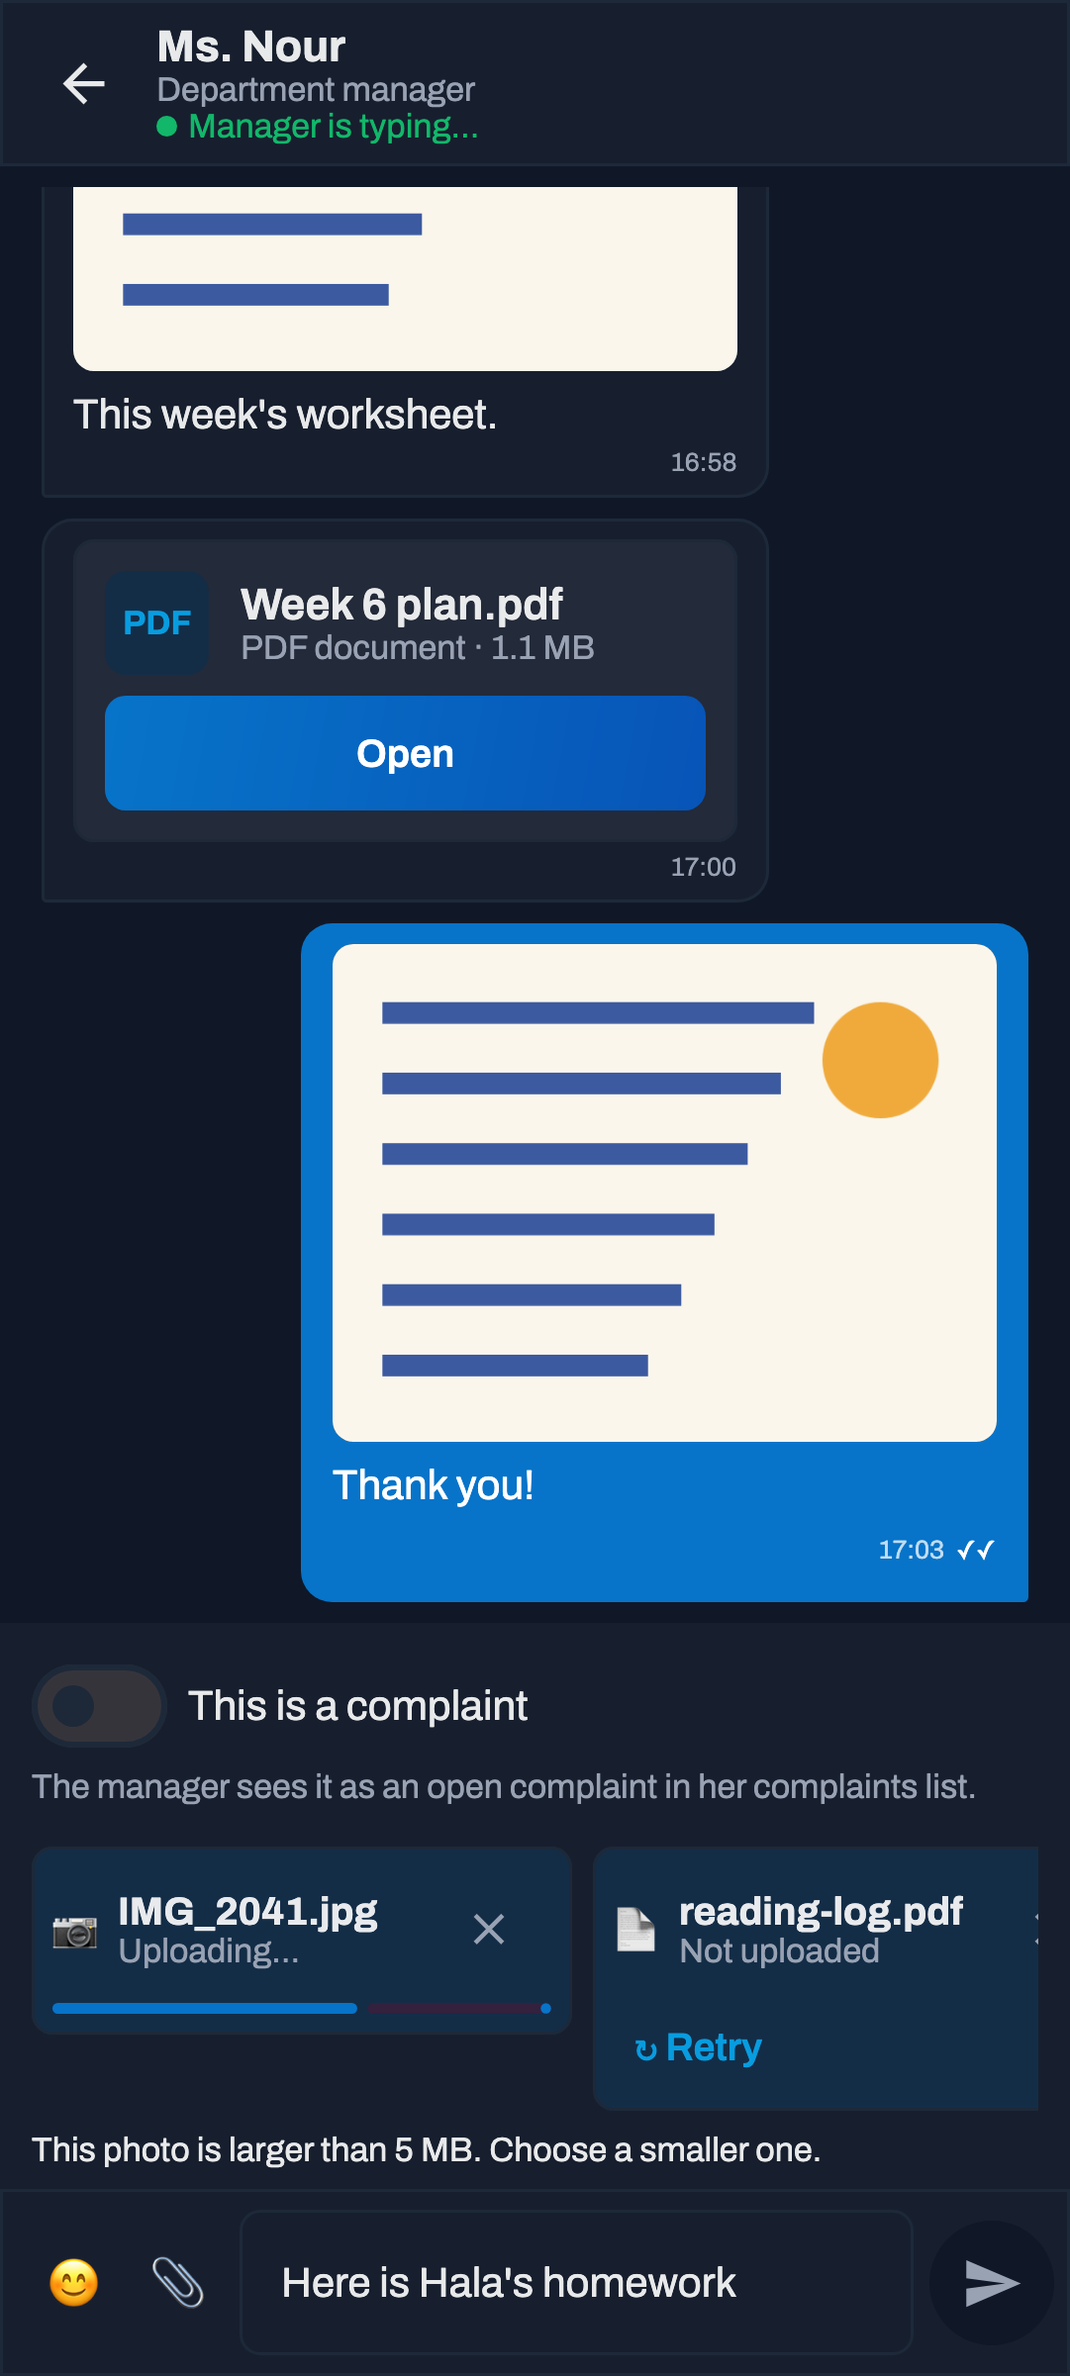
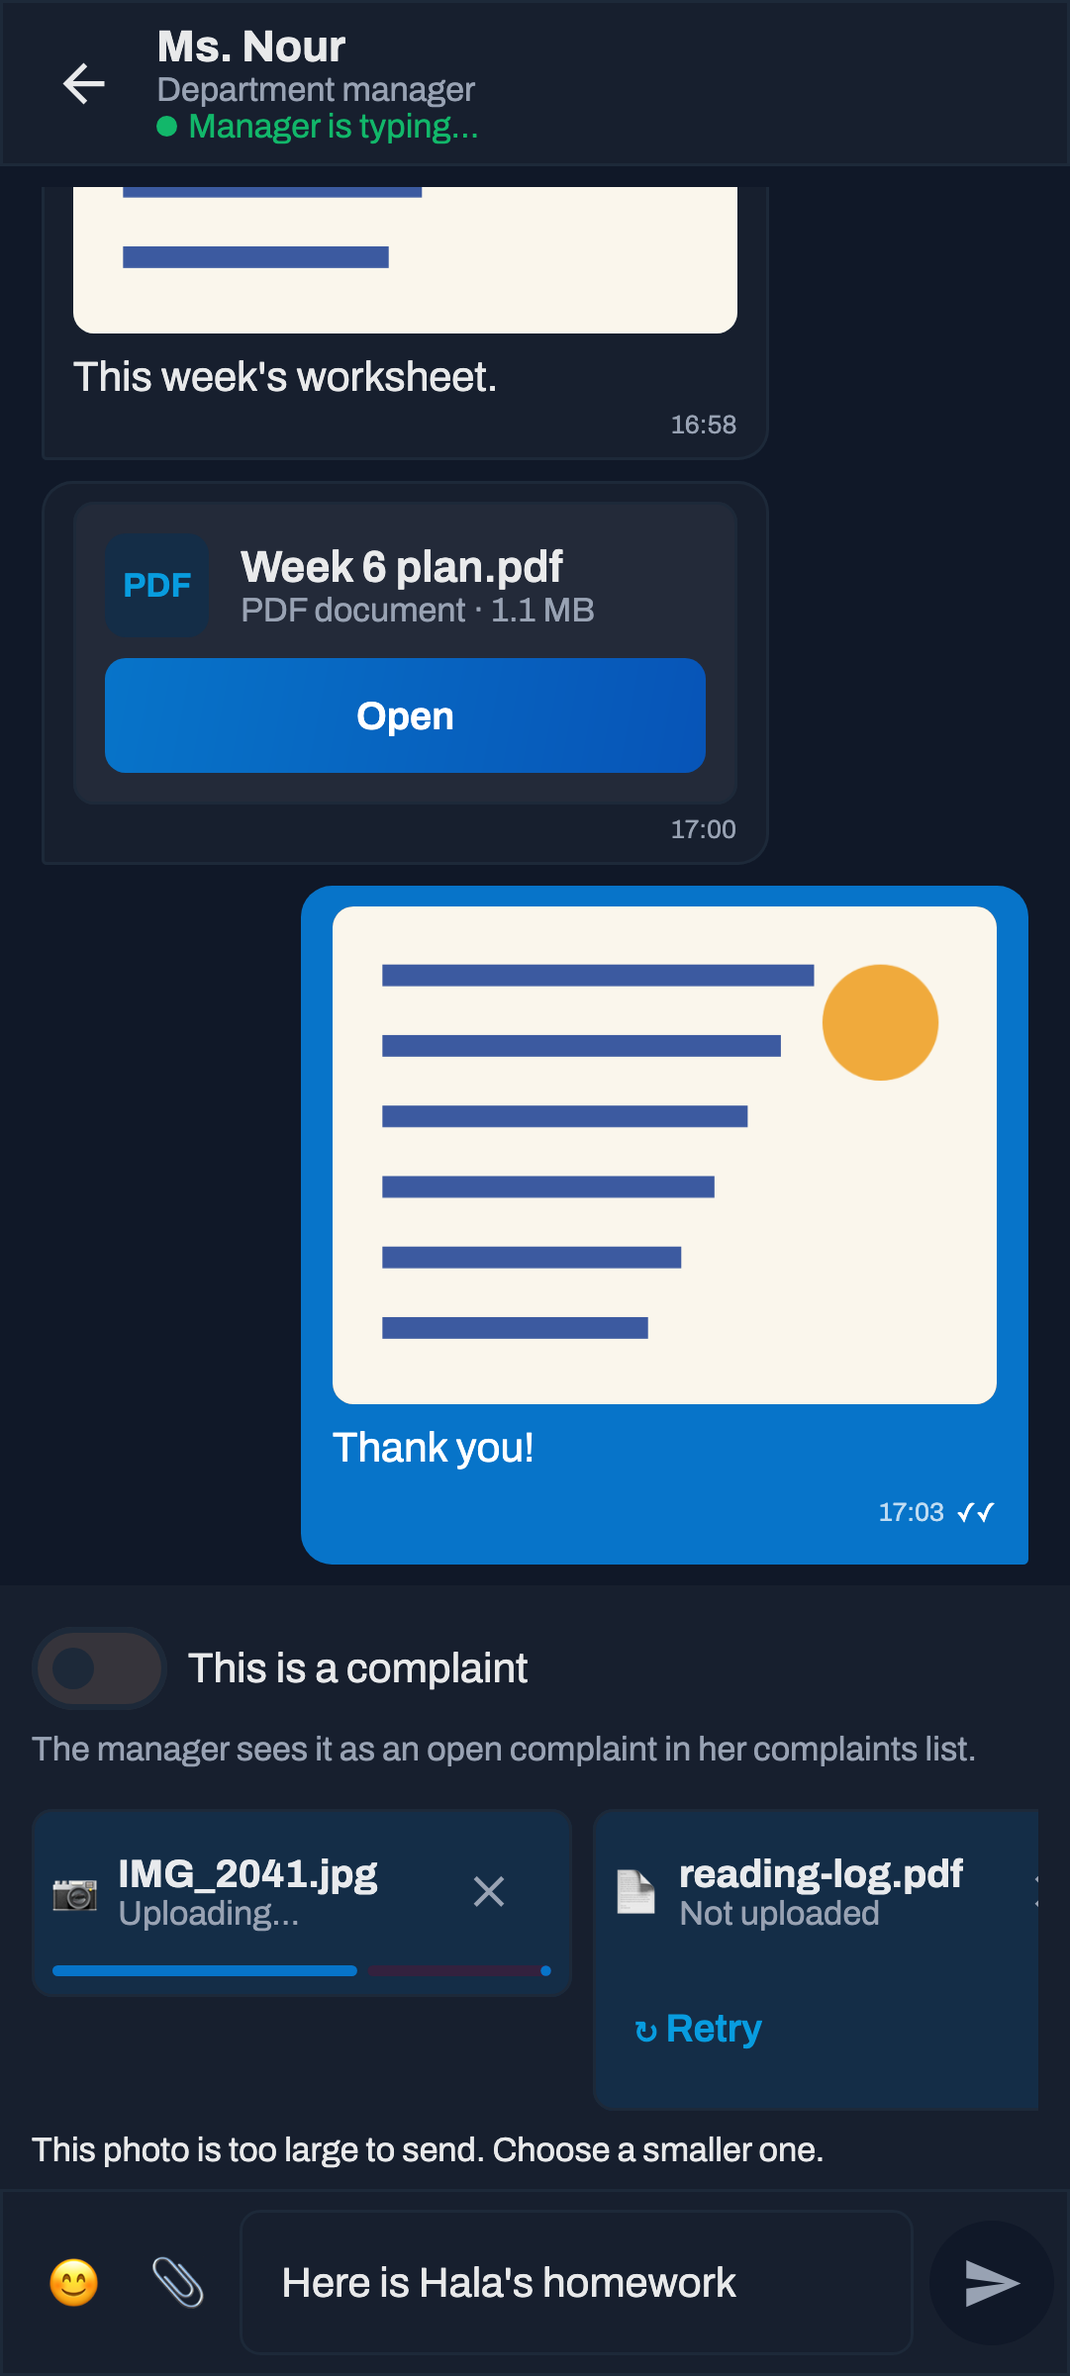
fix(app): M7 review — Retry 48 dp, dead isTyping strings gone, deterministic typing tests

diff --git a/shared/src/desktopTest/kotlin/quest/feature/chat/ChatAttachmentsTypingTest.kt b/shared/src/desktopTest/kotlin/quest/feature/chat/ChatAttachmentsTypingTest.kt
@@ -32,6 +32,8 @@ import quest.feature.chat.domain.ChatPeer
 import quest.feature.chat.domain.ChatRepository
 import quest.feature.chat.domain.MAX_PHOTO_BYTES
 import quest.feature.chat.domain.PickedFile
+import quest.feature.chat.domain.StagedUpload
+import quest.feature.chat.domain.UploadStaging
 import quest.feature.chat.domain.TYPING_TIMEOUT_MS
 import quest.feature.chat.domain.asThumbnail
 import quest.feature.chat.domain.contentTypeOf
@@ -72,7 +74,7 @@ class ChatAttachmentsTypingTest {
 
         var rows: List<ChatThread> = emptyList()
         var threadsAsked = 0
-        val uploads = mutableListOf<UploadFile>()
+        val uploads = mutableListOf<StagedUpload>()
         val gates = mutableListOf<CompletableDeferred<Boolean>>()
         val sends = mutableListOf<Pair<String, List<String>>>()
         var uploadError: Throwable? = null
@@ -82,13 +84,13 @@ class ChatAttachmentsTypingTest {
         override suspend fun coordinators(childId: String): List<ChatThread> = emptyList()
         override suspend fun managers(childId: String): List<ChatThread> = emptyList()
         override suspend fun messages(childId: String, teacherId: String, before: String?, since: String?, limit: Int?): List<ChatMessage> = emptyList()
-        override suspend fun uploadAttachment(childId: String, file: UploadFile, onProgress: (Float) -> Unit): AttachmentRef {
+        override suspend fun uploadAttachment(childId: String, file: StagedUpload, onProgress: (Float) -> Unit): AttachmentRef {
             uploads += file
             uploadError?.let { throw it }
             val gate = CompletableDeferred<Boolean>().also { gates += it }
             onProgress(0.5f)
             if (!gate.await()) error("upload failed")
-            return AttachmentRef("att-${uploads.size}", file.fileName, file.mimeType, file.bytes.size.toLong(), width = 800, height = 600)
+            return AttachmentRef("att-${uploads.size}", file.name, file.contentType, file.size, width = 800, height = 600)
         }
         override suspend fun sendMessage(childId: String, teacherId: String, body: String, clientId: String, topic: ChatTopic?, attachmentIds: List<String>): ChatMessage {
             sends += body to attachmentIds
@@ -107,6 +109,20 @@ class ChatAttachmentsTypingTest {
         }
     }
 
+    /** Staging in memory: what was staged, and which of it has been deleted again. */
+    private class MemoryStaging : UploadStaging {
+        val live = mutableMapOf<String, ByteArray>()
+        var count = 0
+        override suspend fun stage(file: UploadFile): StagedUpload {
+            val path = "staged-${++count}"
+            live[path] = file.bytes
+            return StagedUpload(path, file.fileName, file.mimeType, file.bytes.size.toLong())
+        }
+        override fun discard(staged: StagedUpload) { live.remove(staged.path) }
+    }
+
+    private val staging = MemoryStaging()
+
     private val built = mutableListOf<androidx.lifecycle.ViewModel>()
 
     @BeforeTest fun setUp() = Dispatchers.setMain(Dispatchers.Default)
@@ -120,7 +136,7 @@ class ChatAttachmentsTypingTest {
     private fun conversation(chat: FakeChat, threadId: String? = thread) =
         ChatConversationViewModel(
             ChatPeer(childId = "c1", staffId = manager, staffName = "Ms. Nour", staffRole = ChatStaffRole.MANAGERIAL, threadId = threadId),
-            chat,
+            chat, staging,
         ).also { built += it }
 
     private suspend fun <S> StateFlow<S>.await(timeoutMs: Long = 2_000, predicate: (S) -> Boolean): S {
@@ -144,12 +160,12 @@ class ChatAttachmentsTypingTest {
         assertEquals("image/webp", contentTypeOf("A.WEBP"))
     }
 
-    @Test fun aPhotoTheServerWouldRefuseIsReEncodedAndOneItTakesIsSentAsItIs() {
-        val small = ByteArray(10)
-        assertEquals("image/png", preparePhoto("a.png", small) { error("not needed") }!!.mimeType)
-        val heic = preparePhoto("IMG_0001.HEIC", small) { byteArrayOf(1, 2, 3) }!!
+    @Test fun everyPhotoIsReEncodedAsAJpeg() {
+        val png = preparePhoto("a.png", ByteArray(10)) { byteArrayOf(1, 2, 3) }!!
+        assertEquals("a.jpg" to "image/jpeg", png.fileName to png.mimeType)
+        val heic = preparePhoto("IMG_0001.HEIC", ByteArray(10)) { byteArrayOf(1, 2, 3) }!!
         assertEquals("IMG_0001.jpg" to "image/jpeg", heic.fileName to heic.mimeType)
-        assertNull(preparePhoto("broken.heic", small) { null })
+        assertNull(preparePhoto("broken.heic", ByteArray(10)) { null })
         assertEquals("1.5 MB", formatBytes(1_572_864))
         assertEquals("820 KB", formatBytes(820 * 1024))
     }
@@ -188,6 +204,7 @@ class ChatAttachmentsTypingTest {
         val sent = vm.state.await { s -> s.messages.singleOrNull()?.isPending == false }
 
         assertEquals("This is the homework" to listOf("att-1"), chat.sends.single())
+        assertTrue(staging.live.isEmpty(), "the staged copy goes as soon as the server has the file")
         assertTrue(sent.drafts.isEmpty())
         assertEquals(listOf("att-1"), sent.messages.single().attachments.map { it.id })
     }
@@ -239,6 +256,8 @@ class ChatAttachmentsTypingTest {
 
         vm.dispatch(ChatConversationContract.Intent.RemoveDraft(full.drafts.first().localId))
         vm.state.await { it.drafts.size == 4 && it.refusal == null }
+        assertEquals(4, staging.live.size, "a removed file's staged copy is deleted with it")
+        assertEquals(AttachmentRefusal.PHOTO_TOO_LARGE, refusalFor("huge.heic", 26L * 1024 * 1024, already = 0, photo = true))
     }
 
     @Test fun theServersRefusalsAreNamedAndOnlyARetryableFailureStays() = runBlocking<Unit> {
@@ -296,7 +315,9 @@ class ChatAttachmentsTypingTest {
         val vm = conversation(chat)
         chat.awaitCollectors()
         chat.frames.emit(ChatFrame.Typing(thread, ChatSender.PARENT))
-        delay(80)
+        // Frames are handled in order: once the presence frame behind it has landed, the typing frame was seen.
+        chat.frames.emit(ChatFrame.Presence(online = true, userId = manager))
+        vm.state.await { it.peerOnline == true }
         assertFalse(vm.state.value.isTeacherTyping)
     }
 
@@ -321,7 +342,7 @@ class ChatAttachmentsTypingTest {
             chat.rows = listOf(ChatThread(id = id, childId = "c1", childName = "Hala", teacherId = staff, teacherName = "X",
                 staffRole = case.role, peerRole = case.peerRole, withAdmin = if (case.admin) true else null))
             val vm = ChatConversationViewModel(
-                ChatPeer("c1", staff, "X", staffRole = case.role, threadId = null, peerRole = case.peerRole, withAdmin = case.admin), chat,
+                ChatPeer("c1", staff, "X", staffRole = case.role, threadId = null, peerRole = case.peerRole, withAdmin = case.admin), chat, staging,
             ).also { built += it }
             vm.dispatch(ChatConversationContract.Intent.Load)
             vm.state.await { it.threadId == id }
@@ -354,7 +375,9 @@ class ChatAttachmentsTypingTest {
         chat.awaitCollectors()
         chat.frames.emit(ChatFrame.Typing("th-math", ChatSender.TEACHER))
         chat.frames.emit(ChatFrame.Typing("th-math", ChatSender.TEACHER))
-        delay(120)
+        // Frames are handled in order: once the presence frame behind them has landed, both were.
+        chat.frames.emit(ChatFrame.Presence(online = true, userId = manager))
+        vm.state.await { it.peerOnline == true }
         assertFalse(vm.state.value.isTeacherTyping)
         assertEquals(1, chat.threadsAsked)
     }

diff --git a/shared/src/commonMain/kotlin/quest/feature/parent/presentation/Strings.kt b/shared/src/commonMain/kotlin/quest/feature/parent/presentation/Strings.kt
@@ -79,7 +79,6 @@ data class Strings(
     val online: String = "Online",
     val offline: String = "Offline",
     val connecting: String = "Connecting…",
-    val isTyping: String = "is typing…",
     /** M7: files in a message and who is typing — kept apart, as [notices] is, to stay under the JVM's 255 parameters. */
     val chatFiles: ChatFileStrings = ChatFileStrings.en,
     val emptyConversation: String = "No messages yet. Send a note to the teacher!",
@@ -324,7 +323,6 @@ data class Strings(
             online = "متصل",
             offline = "غير متصل",
             connecting = "جارٍ الاتصال…",
-            isTyping = "يكتب الآن…",
             chatFiles = ChatFileStrings.ar,
             emptyConversation = "لا توجد رسائل بعد. أرسل ملاحظة للمعلمة!",
             retry = "إعادة المحاولة",
@@ -553,7 +551,7 @@ data class ChatFileStrings(
             attachmentUploadFailed = "Not uploaded",
             removeAttachment = "Remove {name}",
             attachTooMany = "You can send up to 5 files in one message.",
-            attachPhotoTooLarge = "This photo is larger than 5 MB. Choose a smaller one.",
+            attachPhotoTooLarge = "This photo is too large to send. Choose a smaller one.",
             attachPdfTooLarge = "This PDF is larger than 10 MB. Choose a smaller one.",
             attachWrongType = "Only photos (JPEG, PNG, WebP) and PDF files can be sent.",
             attachUnreadable = "This file could not be read. Choose another one.",
@@ -578,7 +576,7 @@ data class ChatFileStrings(
             attachmentUploadFailed = "لم يُرفع",
             removeAttachment = "إزالة {name}",
             attachTooMany = "يمكنك إرسال 5 ملفات كحدّ أقصى في الرسالة الواحدة.",
-            attachPhotoTooLarge = "حجم هذه الصورة أكبر من 5 ميغابايت. اختر صورة أصغر.",
+            attachPhotoTooLarge = "هذه الصورة أكبر من أن تُرسل. اختر صورة أصغر.",
             attachPdfTooLarge = "حجم ملف PDF هذا أكبر من 10 ميغابايت. اختر ملفًا أصغر.",
             attachWrongType = "يمكن إرسال الصور (JPEG وPNG وWebP) وملفات PDF فقط.",
             attachUnreadable = "تعذّرت قراءة هذا الملف. اختر ملفًا آخر.",

diff --git a/shared/src/desktopTest/kotlin/quest/feature/chat/ChatConversationViewModelTest.kt b/shared/src/desktopTest/kotlin/quest/feature/chat/ChatConversationViewModelTest.kt
@@ -78,7 +78,7 @@ class ChatConversationViewModelTest {
             return if (i < 0) emptyList() else history.drop(i + 1)
         }
 
-        override suspend fun uploadAttachment(childId: String, file: quest.api.UploadFile, onProgress: (Float) -> Unit): quest.api.dto.AttachmentRef = error("not used")
+        override suspend fun uploadAttachment(childId: String, file: quest.feature.chat.domain.StagedUpload, onProgress: (Float) -> Unit): quest.api.dto.AttachmentRef = error("not used")
         override suspend fun sendMessage(childId: String, teacherId: String, body: String, clientId: String, topic: ChatTopic?, attachmentIds: List<String>): ChatMessage {
             sends.add(body to topic)
             if (failNextSend) { failNextSend = false; throw IllegalStateException("boom") }
@@ -109,7 +109,7 @@ class ChatConversationViewModelTest {
     }
 
     private fun viewModel(peer: ChatPeer, chat: ChatRepository) =
-        ChatConversationViewModel(peer, chat).also { built.add(it) }
+        ChatConversationViewModel(peer, chat, NoStaging).also { built.add(it) }
 
     private fun peer(threadId: String? = OURS, topic: ChatTopic = ChatTopic.QUESTION) = ChatPeer(
         childId = "c1", staffId = COORDINATOR, staffName = "Ms. Lina",
@@ -352,4 +352,10 @@ class ChatConversationViewModelTest {
         assertNull(moved[1].peerOnline)
         assertEquals(true, ChatPeer.of(moved[0]).peerOnline)
     }
+}
+
+/** For view-model tests that attach nothing: staging is never reached. */
+internal object NoStaging : quest.feature.chat.domain.UploadStaging {
+    override suspend fun stage(file: quest.api.UploadFile): quest.feature.chat.domain.StagedUpload? = null
+    override fun discard(staged: quest.feature.chat.domain.StagedUpload) {}
 }

diff --git a/shared/src/commonMain/kotlin/quest/feature/chat/presentation/ChatAttachmentViews.kt b/shared/src/commonMain/kotlin/quest/feature/chat/presentation/ChatAttachmentViews.kt
@@ -10,6 +10,7 @@ import androidx.compose.foundation.layout.Row
 import androidx.compose.foundation.layout.Spacer
 import androidx.compose.foundation.layout.fillMaxWidth
 import androidx.compose.foundation.layout.height
+import androidx.compose.foundation.layout.heightIn
 import androidx.compose.foundation.layout.padding
 import androidx.compose.foundation.layout.size
 import androidx.compose.foundation.layout.width
@@ -180,12 +181,14 @@ private fun DraftChip(
             )
         }
         if (draft.failed) {
-            Text(
-                "↻ ${strings.retry}",
-                style = MaterialTheme.typography.labelLarge, color = DashboardTokens.accentInk,
-                modifier = Modifier.padding(top = Dimens.s4).clip(shape).clickable(role = Role.Button) { onRetry(draft.localId) }
-                    .padding(horizontal = Dimens.s8, vertical = Dimens.s8),
-            )
+            // A 48 dp target, as the remove button beside it.
+            Box(
+                Modifier.padding(top = Dimens.s4).heightIn(min = 48.dp).clip(shape)
+                    .clickable(role = Role.Button) { onRetry(draft.localId) }.padding(horizontal = Dimens.s8),
+                contentAlignment = Alignment.CenterStart,
+            ) {
+                Text("↻ ${strings.retry}", style = MaterialTheme.typography.labelLarge, color = DashboardTokens.accentInk)
+            }
         }
     }
 }

diff --git a/shared/src/desktopTest/kotlin/quest/feature/broadcasts/BroadcastsViewModelTest.kt b/shared/src/desktopTest/kotlin/quest/feature/broadcasts/BroadcastsViewModelTest.kt
@@ -104,7 +104,7 @@ class BroadcastsViewModelTest {
         override suspend fun managers(childId: String): List<ChatThread> = managers.getOrThrow()
         override suspend fun messages(childId: String, teacherId: String, before: String?, since: String?, limit: Int?) = emptyList<quest.api.dto.ChatMessage>()
         override suspend fun sendMessage(childId: String, teacherId: String, body: String, clientId: String, topic: quest.api.dto.ChatTopic?, attachmentIds: List<String>) = error("not used")
-        override suspend fun uploadAttachment(childId: String, file: quest.api.UploadFile, onProgress: (Float) -> Unit): quest.api.dto.AttachmentRef = error("not used")
+        override suspend fun uploadAttachment(childId: String, file: quest.feature.chat.domain.StagedUpload, onProgress: (Float) -> Unit): quest.api.dto.AttachmentRef = error("not used")
         override suspend fun markRead(childId: String, teacherId: String) {}
         override suspend fun sendTyping(childId: String, teacherId: String) {}
         override fun connect() {}

diff --git a/shared/src/desktopTest/kotlin/quest/feature/notifications/NotificationsTabTest.kt b/shared/src/desktopTest/kotlin/quest/feature/notifications/NotificationsTabTest.kt
@@ -144,7 +144,7 @@ class NotificationsTabTest {
         override suspend fun managers(childId: String): List<ChatThread> = emptyList()
         override suspend fun messages(childId: String, teacherId: String, before: String?, since: String?, limit: Int?): List<ChatMessage> = emptyList()
         override suspend fun sendMessage(childId: String, teacherId: String, body: String, clientId: String, topic: ChatTopic?, attachmentIds: List<String>): ChatMessage = error("not used")
-        override suspend fun uploadAttachment(childId: String, file: quest.api.UploadFile, onProgress: (Float) -> Unit): quest.api.dto.AttachmentRef = error("not used")
+        override suspend fun uploadAttachment(childId: String, file: quest.feature.chat.domain.StagedUpload, onProgress: (Float) -> Unit): quest.api.dto.AttachmentRef = error("not used")
         override suspend fun markRead(childId: String, teacherId: String) = Unit
         override suspend fun sendTyping(childId: String, teacherId: String) = Unit
         override fun connect() = Unit

diff --git a/shared/src/desktopTest/kotlin/quest/feature/push/PushTest.kt b/shared/src/desktopTest/kotlin/quest/feature/push/PushTest.kt
@@ -260,7 +260,7 @@ class PushTest {
         override suspend fun managers(childId: String): List<ChatThread> = error("offline")
         override suspend fun messages(childId: String, teacherId: String, before: String?, since: String?, limit: Int?): List<ChatMessage> = emptyList()
         override suspend fun sendMessage(childId: String, teacherId: String, body: String, clientId: String, topic: ChatTopic?, attachmentIds: List<String>): ChatMessage = error("not used")
-        override suspend fun uploadAttachment(childId: String, file: quest.api.UploadFile, onProgress: (Float) -> Unit): quest.api.dto.AttachmentRef = error("not used")
+        override suspend fun uploadAttachment(childId: String, file: quest.feature.chat.domain.StagedUpload, onProgress: (Float) -> Unit): quest.api.dto.AttachmentRef = error("not used")
         override suspend fun markRead(childId: String, teacherId: String) = Unit
         override suspend fun sendTyping(childId: String, teacherId: String) = Unit
         override fun connect() = Unit

diff --git a/shared/src/desktopTest/kotlin/quest/feature/today/TodayTest.kt b/shared/src/desktopTest/kotlin/quest/feature/today/TodayTest.kt
@@ -100,7 +100,7 @@ class TodayTest {
         override suspend fun managers(childId: String): List<ChatThread> = emptyList()
         override suspend fun messages(childId: String, teacherId: String, before: String?, since: String?, limit: Int?) = emptyList<ChatMessage>()
         override suspend fun sendMessage(childId: String, teacherId: String, body: String, clientId: String, topic: ChatTopic?, attachmentIds: List<String>) = error("not used")
-        override suspend fun uploadAttachment(childId: String, file: quest.api.UploadFile, onProgress: (Float) -> Unit): quest.api.dto.AttachmentRef = error("not used")
+        override suspend fun uploadAttachment(childId: String, file: quest.feature.chat.domain.StagedUpload, onProgress: (Float) -> Unit): quest.api.dto.AttachmentRef = error("not used")
         override suspend fun markRead(childId: String, teacherId: String) {}
         override suspend fun sendTyping(childId: String, teacherId: String) {}
         override fun connect() {}
